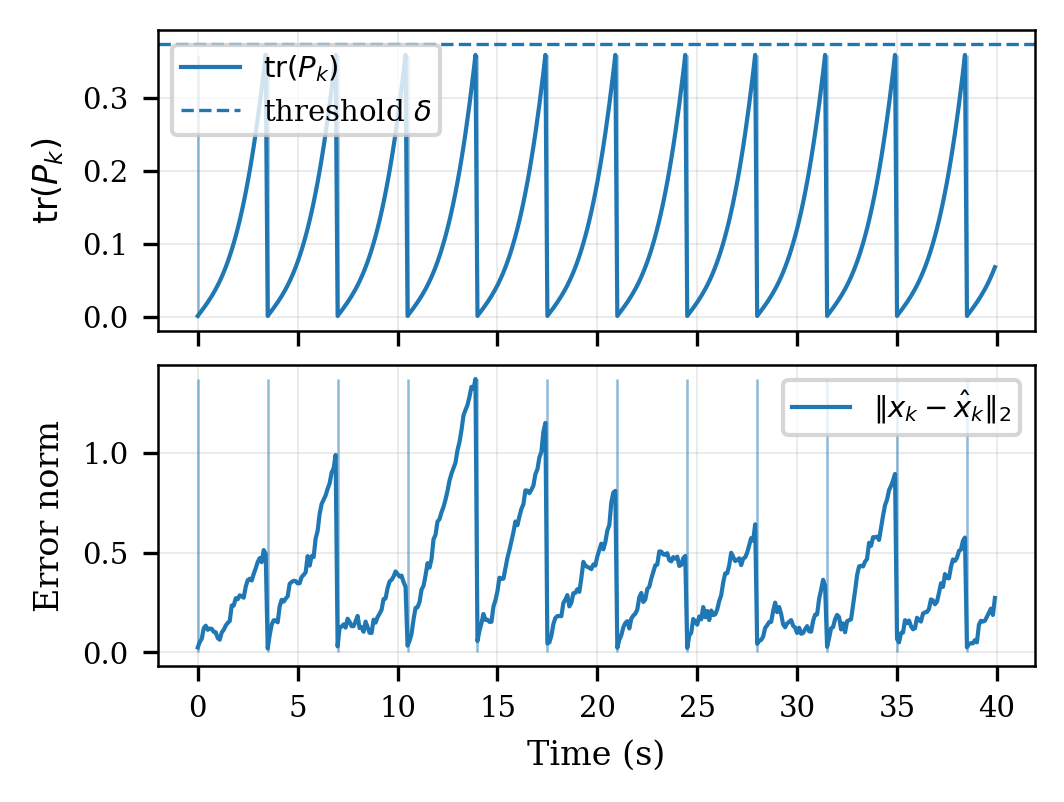
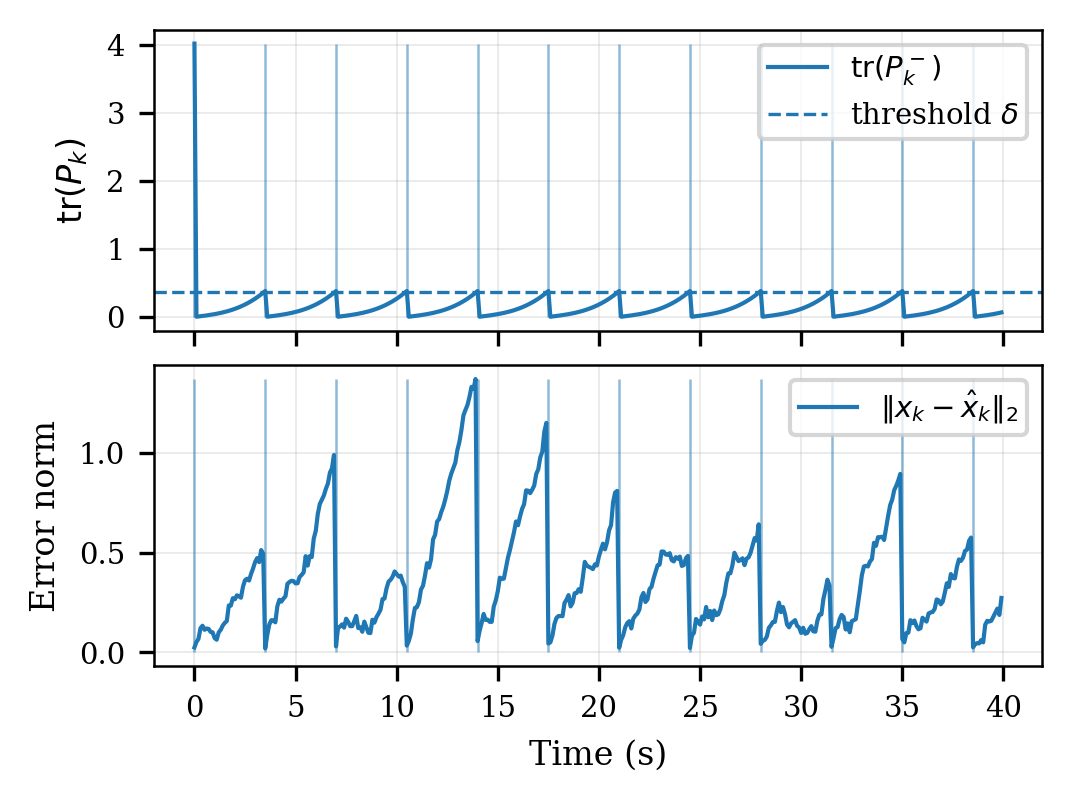
update

diff --git a/content.tex b/content.tex
@@ -1,5 +1,5 @@
 \begin{abstract}
-Wireless communication is essential for state estimation in networked and unmanned systems, yet is often intermittent and resource constrained. This paper studies a performance--communication trade-off for event-triggered state estimation over finite horizons in linear systems. Intermittent communication is modeled as a grow-and-reset evolution of the controller-side estimation error, providing a system-level interpretation of how communication regulates estimation uncertainty. For an uncertainty-based event-triggered update rule, we establish communication-regulated practical stability guarantees and show that the ultimate estimation error bound scales explicitly with the triggering threshold. Simulation results demonstrate clear Pareto-type trade-offs, near-oracle performance relative to optimal scheduling benchmarks, and robustness under communication and modeling uncertainties.
+Wireless communication is essential for state estimation in networked and unmanned systems, yet is often intermittent and resource constrained. This paper studies a performance--communication trade-off for event-triggered state estimation over finite horizons in linear systems. Intermittent communication is modeled as a grow-and-reset evolution of the controller-side estimation error, providing a system-level interpretation of how communication regulates estimation uncertainty. For an uncertainty-based event-triggered update rule, we establish communication-regulated practical stability guarantees and show that the ultimate estimation error bound scales explicitly with the triggering threshold. Simulation results demonstrate clear Pareto-type trade-offs, near-oracle performance relative to optimal scheduling benchmarks, and sensitivity to disturbance intensity.
 \end{abstract}
 
 
@@ -24,7 +24,7 @@ The contributions of this paper are summarized as follows:
 \begin{itemize}
 \item We model intermittent communication as a grow-and-reset mechanism acting on the controller-side estimation error, yielding a transparent system-level interpretation of event-triggered estimation.
 \item We establish communication-regulated practical stability guarantees over finite horizons, explicitly characterizing how the ultimate bound scales with the triggering threshold.
-\item Through simulations motivated by precision agriculture scenarios, we demonstrate clear performance--communication--energy trade-offs, visualize the grow-and-reset mechanism, benchmark against optimal scheduling oracles, and show robustness under communication and modeling uncertainties.
+\item Through simulations motivated by precision agriculture scenarios, we demonstrate clear performance--communication--energy trade-offs, visualize the grow-and-reset mechanism, and benchmark against optimal scheduling oracles.
 \end{itemize}
 
 
@@ -47,8 +47,8 @@ In contrast to these approaches, the present paper does not aim to design new tr
         clip,
     ]{figs/ssc_framework.png}
     \caption{Sensing--Communication--Control (SCC) framework with event-triggered communication.
-    The sensor (e.g., UAV) continuously measures the system state, while state updates are transmitted only when the controller-side prediction error exceeds a threshold~$\delta$.
-    Communication imperfections such as packet loss and finite-bit quantization are explicitly modeled.
+    The sensor (e.g., UAV) continuously measures the system state, while state updates are transmitted only when the controller-side prediction covariance exceeds a threshold~$\delta$.
+    Communication imperfections such as packet loss and finite-bit quantization can be modeled.
     Upon successful reception, the controller resets its state estimate and computes the control input using a fixed LQR law, closing the feedback loop.
     This event-triggered grow-and-reset mechanism enables communication-regulated stability and performance--communication trade-offs.}
     \label{fig:scc_framework}
@@ -64,17 +64,19 @@ x_{k+1} = A x_k + B u_k + w_k,
 \end{equation}
 where $x_k \in \mathbb{R}^n$ denotes the system state, $u_k \in \mathbb{R}^m$ is the control input, and $w_k$ represents bounded exogenous disturbances.
 
-To ground the analysis in a representative unmanned aerial vehicle (UAV) scenario, we consider a standard discrete-time kinematic model capturing translational motion in three-dimensional space. The state is defined as
+To ground the analysis in a representative unmanned aerial vehicle (UAV) scenario, we consider a planar double-integrator model capturing translational motion in the $x$--$y$ plane. The state is defined as
 \[
-x_k \triangleq \begin{bmatrix} p_k^\top & v_k^\top \end{bmatrix}^\top \in \mathbb{R}^6,
+x_k \triangleq \begin{bmatrix} p_x & v_x & p_y & v_y \end{bmatrix}^\top \in \mathbb{R}^4,
 \]
-where $p_k \in \mathbb{R}^3$ and $v_k \in \mathbb{R}^3$ denote the position and velocity of the UAV, respectively. The control input $u_k \in \mathbb{R}^3$ corresponds to the commanded acceleration.
+where $(p_x,p_y)$ and $(v_x,v_y)$ denote planar position and velocity, and the control input $u_k \in \mathbb{R}^2$ corresponds to commanded accelerations $u_k = [a_x,a_y]^\top$.
 
 With sampling period $h>0$, the dynamics can be written as
 \begin{equation}
 \begin{aligned}
-p_{k+1} &= p_k + h v_k + \tfrac{1}{2} h^2 u_k, \\
-v_{k+1} &= v_k + h u_k,
+p_{x,k+1} &= p_{x,k} + h v_{x,k} + \tfrac{1}{2} h^2 a_{x,k}, \\
+v_{x,k+1} &= v_{x,k} + h a_{x,k}, \\
+p_{y,k+1} &= p_{y,k} + h v_{y,k} + \tfrac{1}{2} h^2 a_{y,k}, \\
+v_{y,k+1} &= v_{y,k} + h a_{y,k},
 \end{aligned}
 \label{eq:uav_dynamics}
 \end{equation}
@@ -82,26 +84,30 @@ which admits the compact state-space representation~\eqref{eq:lti} with
 \[
 A =
 \begin{bmatrix}
-I_3 & h I_3 \\
-0 & I_3
+1 & h & 0 & 0 \\
+0 & 1 & 0 & 0 \\
+0 & 0 & 1 & h \\
+0 & 0 & 0 & 1
 \end{bmatrix},
 \quad
 B =
 \begin{bmatrix}
-\tfrac{1}{2} h^2 I_3 \\
-h I_3
+\tfrac{1}{2} h^2 & 0 \\
+h & 0 \\
+0 & \tfrac{1}{2} h^2 \\
+0 & h
 \end{bmatrix}.
 \]
 
-This model captures the dominant translational dynamics of a UAV operating in regimes where attitude dynamics are stabilized by a fast inner-loop controller. The proposed event-triggered sensing--communication--control framework is developed for the general LTI form~\eqref{eq:lti}, while the UAV model~\eqref{eq:uav_dynamics} serves as a concrete and practically relevant instantiation used in simulations.
+This model captures the dominant translational dynamics of a UAV operating in regimes where attitude dynamics are stabilized by a fast inner-loop controller. The proposed event-triggered sensing--communication--control framework is developed for the general LTI form~\eqref{eq:lti}, while the planar model~\eqref{eq:uav_dynamics} serves as a concrete instantiation used in simulations.
 
-\subsection{Perfect State Measurement and Intermittent Updates}
+\subsection{Full-State Measurement and Intermittent Updates}
 To isolate the fundamental performance--communication trade-off induced solely by communication constraints, we assume linear state measurements of the form
 \begin{equation}
 y_k = C x_k + v_k,
 \label{eq:measurement}
 \end{equation}
-where $v_k$ denotes zero-mean measurement noise with covariance $R \succ 0$. The process disturbance $w_k$ in~\eqref{eq:lti} is assumed to be zero-mean with covariance $Q \succeq 0$.
+where $v_k$ denotes zero-mean measurement noise with covariance $R \succ 0$. The process disturbance $w_k$ in~\eqref{eq:lti} is assumed to be zero-mean with covariance $Q \succeq 0$. In the simulations we use full-state measurement ($C=I$) with small Gaussian noise.
 
 Communication constraints are modeled via intermittent state updates, a standard abstraction in networked control systems capturing packet drops as well as limited transmission opportunities~\cite{schenato2007foundations,hespanha2007survey}. Let $\gamma_k \in \{0,1\}$ indicate whether a measurement update is successfully delivered to the controller at time $k$, where $\gamma_k = 1$ corresponds to a successful update and $\gamma_k = 0$ indicates no update.
 
@@ -156,16 +162,16 @@ Under~\eqref{eq:estimator}, the estimation error exhibits a \emph{grow-and-reset
 \section{Event-Triggered Communication and Co-Design Objective}
 
 \subsection{Event-Triggered Update Rule}
-We adopt an error-based event-triggered state update rule based on the estimation uncertainty generated by the intermittent Kalman filter. Specifically, the communication indicator $\gamma_k \in \{0,1\}$ is defined as
+We adopt an error-based event-triggered state update rule based on the estimation uncertainty generated by the intermittent Kalman filter. Let $P_k^{-}$ denote the prediction covariance before the measurement update. The communication indicator $\gamma_k \in \{0,1\}$ is defined as
 \begin{equation}
 \gamma_k =
 \begin{cases}
-1, & \mathrm{tr}(P_k) > \delta,\\
+1, & \mathrm{tr}(P_k^{-}) > \delta,\\
 0, & \text{otherwise},
 \end{cases}
 \label{eq:trigger_rule}
 \end{equation}
-where $\delta > 0$ is a tunable triggering threshold and $P_k$ denotes the estimation error covariance at time $k$ generated by the intermittent Kalman recursion under the threshold $\delta$. Consequently, both $P_k$ and $\gamma_k$ evolve as sequences induced by the choice of $\delta$.
+where $\delta > 0$ is a tunable triggering threshold. Consequently, both $P_k$ and $\gamma_k$ evolve as sequences induced by the choice of $\delta$.
 
 Smaller values of $\delta$ lead to more frequent state updates and improved estimation and control performance, whereas larger values reduce communication usage at the expense of larger transient deviations. The fundamental question of how frequently control and estimation updates should be performed under communication constraints has been systematically investigated in the literature~\cite{chen2020often}.
 
@@ -201,7 +207,7 @@ From this perspective, the threshold $\delta$ directly determines the allowable 
 
 The co-design problem~\eqref{eq:prob_P1} is a one-dimensional threshold selection problem induced by the indicator-type event-triggering rule~\eqref{eq:trigger_rule}. Due to the discrete switching behavior of the communication indicator $\gamma_k$, the objective function is generally non-smooth and non-convex with respect to the threshold~$\delta$. As a result, gradient-based optimization methods are not applicable.
 
-Instead, we adopt a direct evaluation approach that exploits the low dimensionality of the design parameter. Specifically, the triggering threshold~$\delta$ is swept over a logarithmically spaced grid. For each candidate value of~$\delta$, the closed-loop system is simulated over the finite horizon~$T$ using the intermittent Kalman filter and fixed LQR controller described in Section~III. The resulting estimation uncertainty $J'(\delta)=\sum_{k=0}^{T}\mathrm{tr}(P_k)$ and communication usage $N_{\mathrm{tx}}(\delta)=\sum_{k=0}^{T}\gamma_k$ are recorded.
+Instead, we adopt a direct evaluation approach that exploits the low dimensionality of the design parameter. Specifically, the triggering threshold~$\delta$ is swept over a logarithmically spaced grid. For each candidate value of~$\delta$, the closed-loop system is simulated over the finite horizon~$T$ using the intermittent Kalman filter and fixed LQR controller described in Section~III. The resulting state-regulation cost $J_x(\delta)$, control energy $E_u(\delta)$, and communication usage $N_{\mathrm{tx}}(\delta)=\sum_{k=0}^{T}\gamma_k$ are recorded.
 
 This procedure yields a discrete approximation of the performance--communication trade-off curve. For a given weighting parameter~$\lambda$, the corresponding operating point is obtained by minimizing $J'(\delta)+\lambda N_{\mathrm{tx}}(\delta)$ over the grid. The same threshold sweep is used to generate the Pareto curves reported in Section~V.
 
@@ -213,7 +219,7 @@ This section presents numerical simulations validating the proposed communicatio
 
 We consider a planar UAV modeled as a discrete-time double-integrator with sampling period $T_s=0.1$~s. The state is $x_k=[p_x,v_x,p_y,v_y]^\top$ and the control input is $u_k=[a_x,a_y]^\top$. A fixed LQR controller is designed offline under full-state availability with weighting matrices $Q=\mathrm{diag}(10,1,10,1)$ and $R=0.1I$.
 
-State estimation is performed using the intermittent Kalman filter described in Section~III. Small process disturbances are included to induce nontrivial growth of estimation uncertainty between communication events. All simulations are conducted over a finite horizon~$T$ and averaged over multiple Monte Carlo runs with randomized initial conditions.
+State estimation is performed using the intermittent Kalman filter described in Section~III. Small process and measurement disturbances are included to induce nontrivial growth of estimation uncertainty between communication events. All simulations are conducted over a finite horizon~$T$ and averaged over multiple Monte Carlo runs with randomized initial conditions. Unless otherwise stated, the communication channel is assumed lossless and unquantized.
 
 Communication usage is measured by the total number of successfully delivered state updates,
 \[
@@ -248,14 +254,14 @@ Fig.~\ref{fig:pareto} reports the resulting trade-offs. Event-triggered communic
 
 To illustrate the mechanism underlying the analytical results, we examine the time-domain evolution of the estimation uncertainty and the controller-side state-transmission error for a representative threshold~$\delta^\star$ selected from the knee region of Fig.~\ref{fig:pareto}.
 
-Fig.~\ref{fig:time_response} shows the evolution of the estimation uncertainty $\mathrm{tr}(P_k)$, the state-transmission error $\|x_k-\hat{x}_k\|$, and the corresponding communication events. During intervals without communication, the estimator operates in prediction mode and both uncertainty and state-transmission error grow. Once $\mathrm{tr}(P_k)$ exceeds the threshold~$\delta^\star$, a communication event is triggered, the estimator is reset, and the transmission error is sharply reduced.
+Fig.~\ref{fig:time_response} shows the evolution of the prediction uncertainty $\mathrm{tr}(P_k^-)$, the state-transmission error $\|x_k-\hat{x}_k\|$, and the corresponding communication events. During intervals without communication, the estimator operates in prediction mode and both uncertainty and state-transmission error grow. Once $\mathrm{tr}(P_k^-)$ exceeds the threshold~$\delta^\star$, a communication event is triggered, the estimator is reset, and the transmission error is sharply reduced.
 
 This grow-and-reset behavior confines the closed-loop state within a bounded envelope whose size scales proportionally with~$\delta^\star$, consistent with the communication-regulated practical stability result in Theorem~\ref{thm:main}.
 
 \begin{figure}[t]
     \centering
     % \includegraphics[width=0.9\linewidth]{figs/fig_B_time_response.pdf}
-    \caption{Time-domain illustration of the grow-and-reset mechanism. The estimation uncertainty and state-transmission error grow between communication events and are reset once the threshold~$\delta$ is exceeded. Vertical markers indicate communication events.}
+    \caption{Time-domain illustration of the grow-and-reset mechanism. The prediction uncertainty and state-transmission error grow between communication events and are reset once the threshold~$\delta$ is exceeded. Vertical markers indicate communication events.}
     \label{fig:time_response}
 \end{figure}
 

diff --git a/src/yac_sim/experiments.py b/src/yac_sim/experiments.py
@@ -122,12 +122,14 @@ def figure_A_pareto(cfg: SimConfig, outdir: Path) -> float:
     ax1.set_xlabel("Delivered updates")
     ax1.set_ylabel(r"$J_x$")
     ax1.grid(True, alpha=0.3)
+    ax1.set_xlim(0, 250)
     ax1.xaxis.set_major_locator(MaxNLocator(nbins=5))
     ax1.yaxis.set_major_locator(MaxNLocator(nbins=5))
 
     ax2.set_xlabel("Delivered updates")
     ax2.set_ylabel(r"$E_u$")
     ax2.grid(True, alpha=0.3)
+    ax2.set_xlim(0, 250)
     ax2.xaxis.set_major_locator(MaxNLocator(nbins=5))
     ax2.yaxis.set_major_locator(MaxNLocator(nbins=5))
 
@@ -166,7 +168,7 @@ def figure_B_time_response(cfg: SimConfig, outdir: Path, delta_knee: float) -> N
 
     fig, (ax1, ax2) = plt.subplots(2, 1, figsize=(3.5, 2.6), sharex=True)
 
-    ax1.plot(t, P_trace, label=r"$\mathrm{tr}(P_k)$")
+    ax1.plot(t, P_trace, label=r"$\mathrm{tr}(P_k^-)$")
     ax1.axhline(cfg1.delta, linestyle="--", linewidth=0.8, label=r"threshold $\delta$")
     idx = np.where(tx > 0)[0]
     if idx.size > 0:

diff --git a/src/yac_sim/sim_single.py b/src/yac_sim/sim_single.py
@@ -136,7 +136,8 @@ def simulate(cfg: SimConfig, policy: str = "ET", rng: np.random.Generator | None
             x_hat = x_hat_pred
             P = P_pred
 
-        P_trace[k] = float(np.trace(P))
+        # Log prediction covariance trace used by the trigger.
+        P_trace[k] = trace_pred
 
         # control uses remote estimate only (paper eq. (control))
         u = -(K @ x_hat).reshape(-1)
